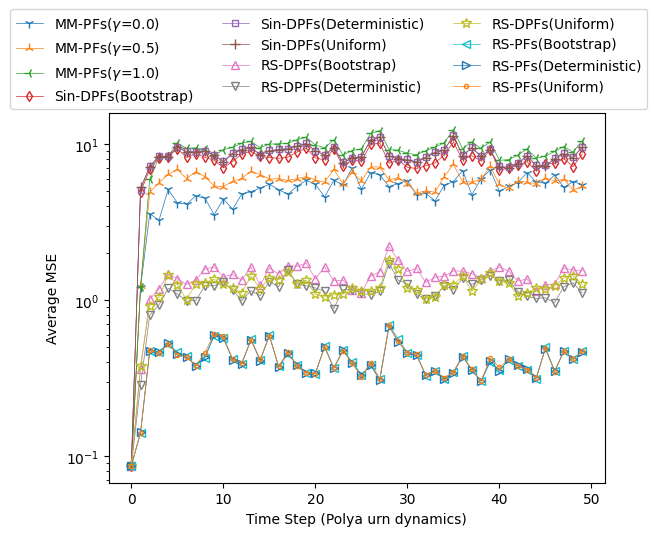
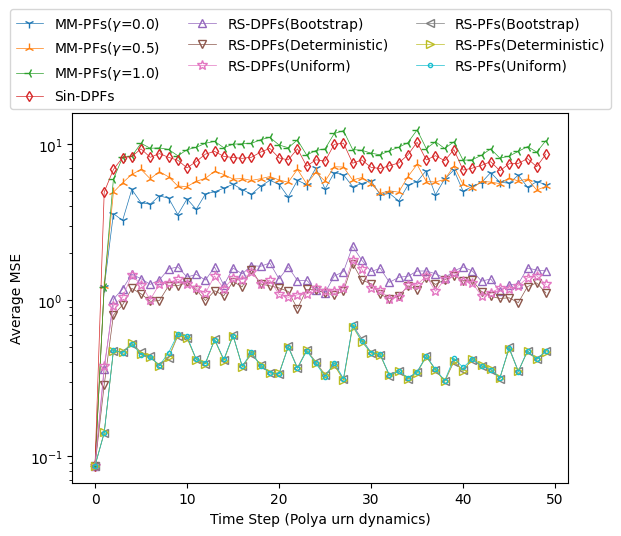
modify nll loss and joint distribution estimate

diff --git a/rspf_dpf.py b/rspf_dpf.py
@@ -107,7 +107,7 @@ class RSPF:
                 s_trans = s_list[batch_index, index_flatten, :t+1].clone().detach()
                 s_list_re[:, :, :t+1] = s_trans.view(len(re_index), N_p, -1)
 
-        return m_list, s_list, w_list
+        return m_list_re, s_list_re, w_list_re
 
     def test(self, test_data, N_p=2000, dyn="Mark", prop="Boot", re="mul"): 
         for m_test, s_test, o_test in test_data: 
@@ -220,11 +220,14 @@ class RSDPF(nn.Module, RSPF):
                 s_trans = s_list[batch_index, index_flatten, :t+1].clone().detach()
                 s_list_re[:, :, :t+1] = s_trans.view(len(re_index), N_p, -1)
 
-        return m_list, s_list, w_list
+        return m_list, s_list, w_list, m_list_re, s_list_re, w_list_re
 
-    def forward(self, m_data, s_data, o_data, N_p, dyn, prop, re):  
-        m_parlist, s_parlist, w_parlist = self.filtering(m_data, s_data, o_data, N_p=N_p, dyn=dyn, prop=prop, re=re)
-        s_est = (w_parlist * s_parlist).sum(dim=1, keepdim=True)
+    def forward(self, m_data, s_data, o_data, N_p, dyn, prop, re, train=True):  
+        m_parlist, s_parlist, w_parlist, m_re, s_re, w_re = self.filtering(m_data, s_data, o_data, N_p=N_p, dyn=dyn, prop=prop, re=re)
+        if train: 
+            s_est = (w_parlist * s_parlist).sum(dim=1, keepdim=True)
+        else: 
+            s_est = (w_re * s_re).sum(dim=1, keepdim=True)
         return s_est
     
     def train(self, train_data, val_data, N_iter=50, N_p=200, dyn="Mark", prop="Boot", re="mul"): 
@@ -234,8 +237,8 @@ class RSDPF(nn.Module, RSPF):
             for i, (m_train, s_train, o_train) in enumerate(train_data): 
                 s_est = self(m_train[:, :, [0]], s_train[:, :, [0]], o_train, N_p, dyn, prop, re)
                 # loss_sample = ((s_est - s_data)**2).mean(dim=2, keepdim=True)
-                nll = - torch.distributions.Normal(loc=s_train, scale=self.sigma_u).log_prob(s_est)
-                loss = nll.mean()
+                nll = - torch.distributions.Normal(loc=s_est, scale=self.sigma_u).log_prob(s_train)
+                loss = self.loss(s_est, s_train) + nll.mean()
                 # loss_sample.mean(dim=0, keepdim=True)
                 loss.backward()
 
@@ -245,7 +248,7 @@ class RSDPF(nn.Module, RSPF):
             self.optim_scheduler.step()
             with torch.no_grad(): 
                 for m_val, s_val, o_val in val_data: 
-                    s_est = self(m_val[:, :, [0]], s_val[:, :, [0]], o_val, N_p, dyn, prop, re)
+                    s_est = self(m_val[:, :, [0]], s_val[:, :, [0]], o_val, N_p, dyn, prop, re, train=False)
                     # loss = ((s_est - s_val)**2).mean()
                     loss = self.loss(s_est, s_val)
                     if loss.item() < l.min(): 
@@ -259,7 +262,7 @@ class RSDPF(nn.Module, RSPF):
         best_val = torch.load(f'./results/rsdpf/bestval_rs{self.rs}_nf{self.nf}_{dyn}_{prop}_{re}')
         with torch.no_grad(): 
             for m_test, s_test, o_test in test_data: 
-                s_est = best_val(m_test[:, :, [0]], s_test[:, :, [0]], o_test, N_p, dyn, prop, re)
+                s_est = best_val(m_test[:, :, [0]], s_test[:, :, [0]], o_test, N_p, dyn, prop, re, train=False)
                 loss = self.loss(s_est, s_test)
                 print(f'DPF test loss = {loss.item():.8f}')
             mse_dpf = ((s_est - s_test)**2).detach().numpy()
@@ -319,7 +322,7 @@ class MMPF(RSPF):
                 
                 s_list_re[:, :, :, :t+1] = s_trans.view(batch, N_m, N_pm, -1)
 
-        return pi_list, s_list, w_list
+        return pi_list, s_list_re, w_list_re
 
     def test(self, test_data, N_p=2000, re="mul", dyn="Mark"): 
         for m_test, s_test, o_test in test_data: 
@@ -381,7 +384,7 @@ class MMPF2(RSPF):
                 s_list_re[:, :, :, t] = s_trans.view(batch, N_m, -1)
                 # s_list_re[:, :, :, t] = s_list_re[:, :, :, t].max(dim=1, keepdim=True)[0]
 
-        return pi_list, s_list, w_list
+        return pi_list, s_list_re, w_list_re
 
     def test(self, test_data, N_p=2000, re="mul"): 
         for m_test, s_test, o_test in test_data: 
